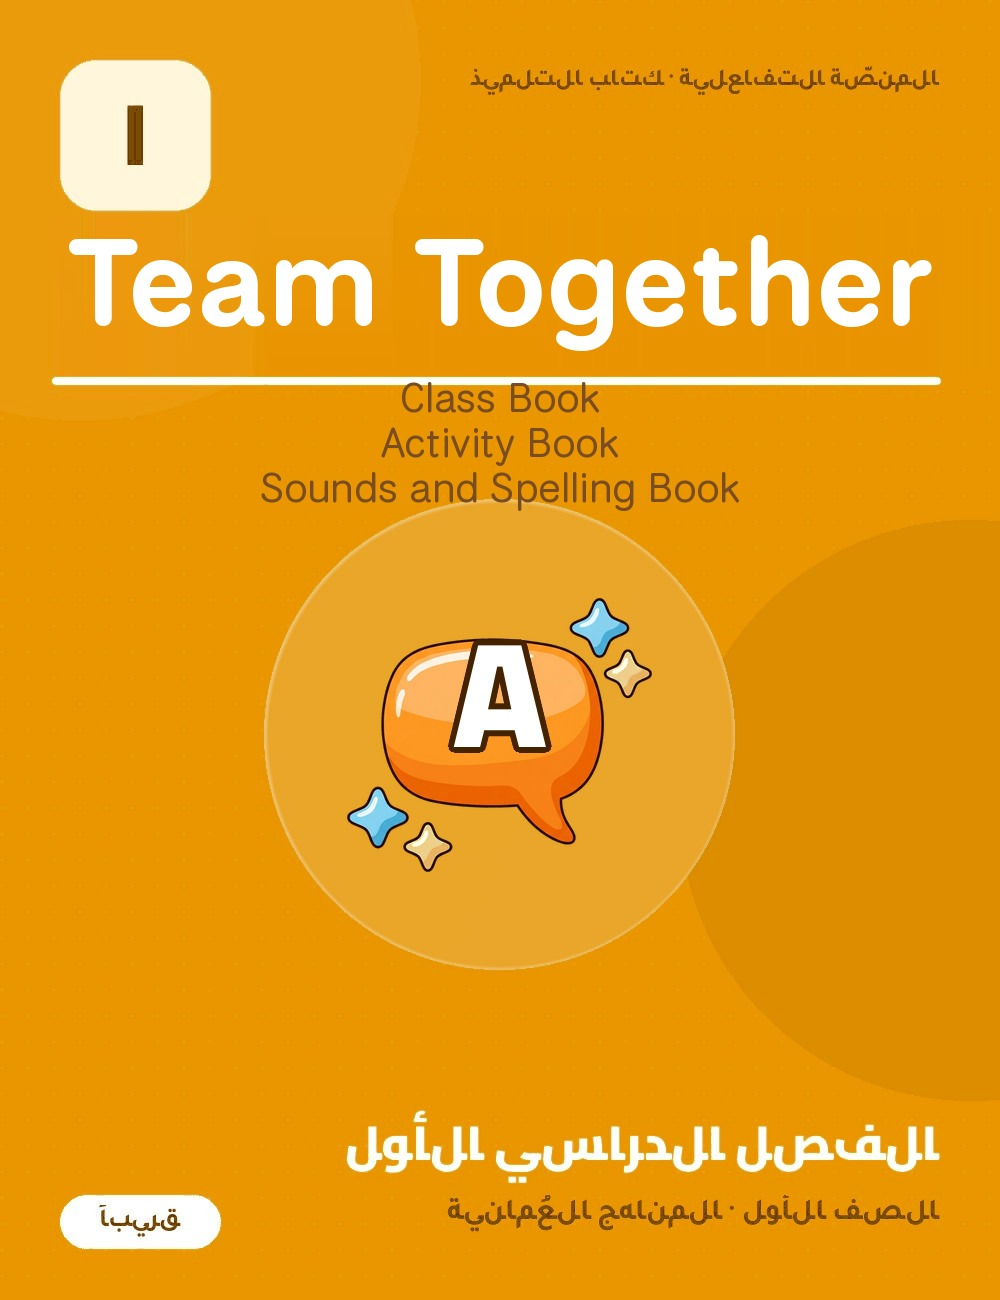
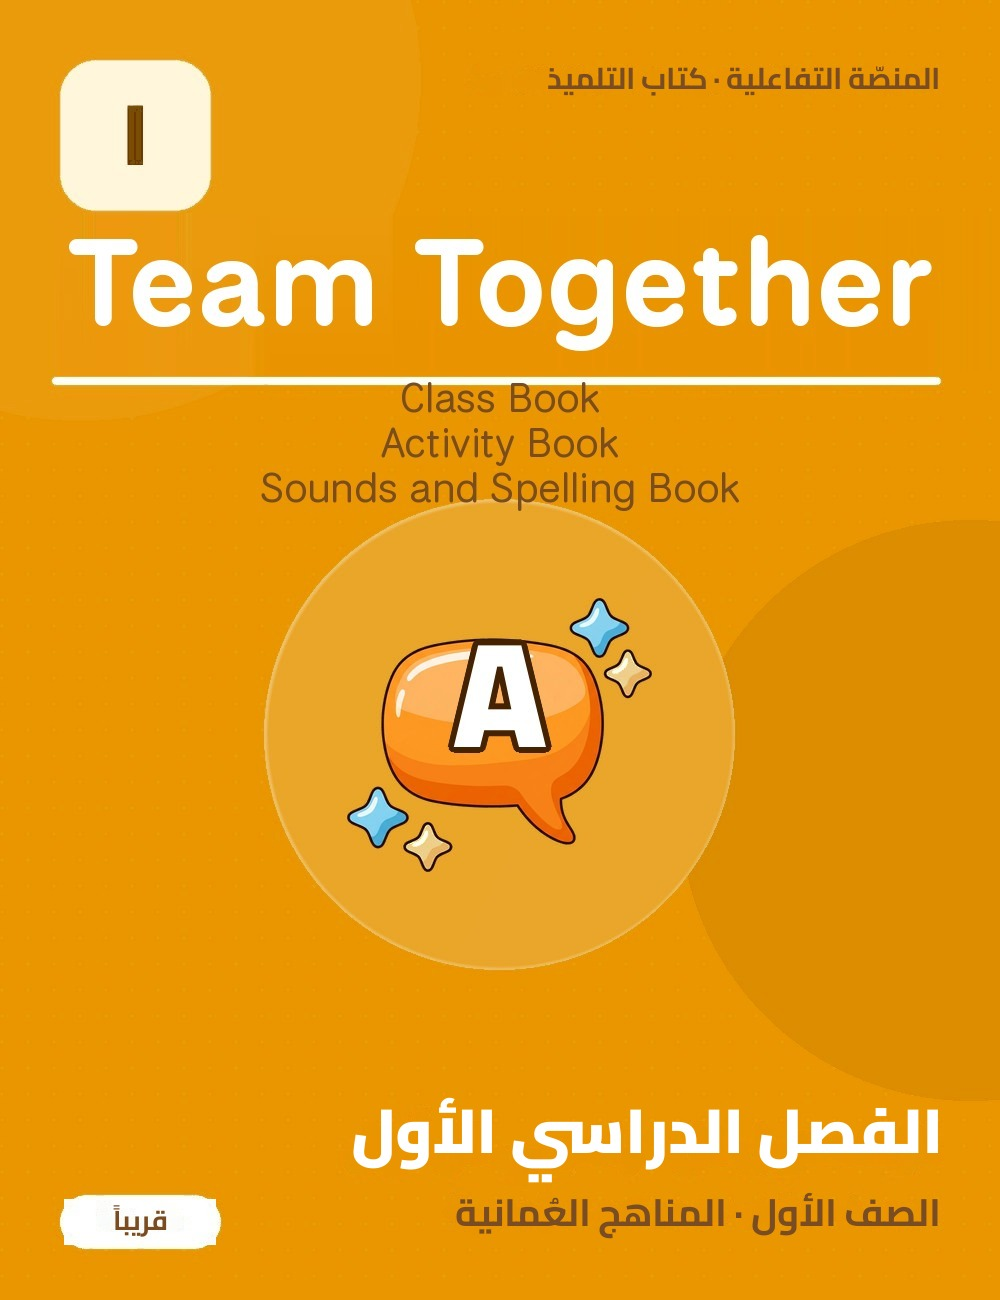
إصلاح النصوص العربية «المبعثرة» في بطاقة اللغة الإنجليزية + أداة تشكيل صحيحة
المالك لاحظ أن حروف البطاقة العربية غير متصلة. القياس الرقمي أكد ذلك:
أكبر كتلة متصلة في «الفصل الدراسي الأول» كانت ٨٣٤ بكسل (كل حرف كتلة
مستقلة)، وصارت ٣٣٩٢ بعد الإصلاح؛ وبطاقة العلوم — المعيار — على النمط
الصحيح أصلاً. حكمي السابق «لا خلل» كان خطأً بالعين المجردة.

العلّة الجذرية (مقيسة بأسماء الحروف بعد التشكيل): السكربت الأصلي مرّر
init/medi/fina ميزاتٍ عامّةً إلى hb.shape، فطُبِّق الشكل «النهائي» على كل
حرف (uniFEDE/uniFED2/uniFEBA…) — أشكالٌ سياقية لكن متباعدة لا تلتقي.
الحلّ: عدم تمرير أي ميزات؛ المُشكِّل العربي يطبّقها حرفاً حرفاً. النتيجة
مطابقة لرسم Chromium بخط Cairo نفسه (١١٤٥ مقابل ١١٦٢ بكسل عرضاً).

- images/cover-g1-en.jpg: أُعيد رسم النصوص الأربعة (العنوان العلوي، الفصل
  الدراسي، الصف والمناهج، «قريباً») بعد ترقيع الحروف القديمة، بأحجام
  مقيسة على بطاقة العلوم (السطر الكبير ≈٦٠٨ بكسل عرضاً بدل ٤٦٠ المكافئ
  القديم). الصياغة مأخوذة من بطاقة العلوم: «الصف الأول · المناهج
  العُمانية».
- tools/arabic-text.py: أداة التشكيل والرسم الصحيحة (HarfBuzz + FreeType)
  للبطاقات القادمة، مع توثيق العلّة في رأسها.
- CLAUDE.md §إنشاء بطاقات الكتب: تحذير مقيس من تمرير ميزات init/medi/fina،
  وطريقتا الحكم (مقارنة Chromium، وقياس المكوّنات المتصلة).

Claude-Session: https://claude.ai/code/session_017si4brcGTz1Fjpw8n6M5Kr

Changed region(s): [[0.341, 0.8308, 0.961, 0.9538], [0.465, 0.0308, 0.93, 0.0923], [0.093, 0.9231, 0.186, 0.9538]]

diff --git a/tools/arabic-text.py b/tools/arabic-text.py
@@ -1,0 +1,84 @@
+"""تشكيلُ نصٍّ عربيٍّ ورسمُه صورةً لبطاقاتِ الكتب (Pillow + HarfBuzz + FreeType).
+
+الاستعمال:
+    from importlib.machinery import SourceFileLoader
+    at = SourceFileLoader('at', 'tools/arabic-text.py').load_module()
+    img, ascent = at.shape_and_render('الفصل الدراسي الأول', 'Cairo-Black.ttf', 62)
+    card.paste(img, (x, y), img)          # img صورة RGBA مقصوصةٌ على النصّ
+
+المتطلبات: pip install uharfbuzz freetype-py
+خطُّ Cairo (OFL) يُنزَّل من Google Fonts (روابطُ TTF ثابتة عبر css2 بـUser-Agent قديم):
+    https://fonts.googleapis.com/css2?family=Cairo:wght@700;900
+
+⚠ العلّةُ التي أفسدت بطاقةَ الإنجليزية (٢٠٢٦-٠٩-١٦): تفعيلُ init/medi/fina كميزاتٍ
+عامّةٍ في hb.shape(...) يفرضُ الشكلَ «النهائيَّ» على كلِّ حرف، فتخرجُ الحروفُ بأشكالِها
+السياقيةِ لكن متباعدةً لا تلتقي (مبعثرة). لا تُمرَّرُ ميزاتٌ إطلاقاً — المُشكِّلُ
+العربيُّ يطبّقُها حرفاً حرفاً بنفسِه.
+"""
+import uharfbuzz as hb
+import freetype
+from PIL import Image
+import numpy as np
+
+_face_cache = {}
+
+
+def _ft_face(font_path):
+    if font_path not in _face_cache:
+        _face_cache[font_path] = freetype.Face(font_path)
+    return _face_cache[font_path]
+
+
+def shape_and_render(text, font_path, size_px, color=(255, 255, 255), rtl=True):
+    """يُعيدُ (صورة RGBA مقصوصةً على النصّ، ارتفاعَ السطرِ فوقَ خطِّ الأساس)."""
+    with open(font_path, 'rb') as f:
+        fontdata = f.read()
+    hb_font = hb.Font(hb.Face(fontdata))
+    hb_font.scale = (int(size_px * 64), int(size_px * 64))  # 26.6 → px = units >> 6
+
+    buf = hb.Buffer()
+    buf.add_str(text)
+    buf.guess_segment_properties()
+    if rtl:
+        buf.direction = 'rtl'
+    buf.script = 'Arab'
+    buf.language = 'ar'
+    hb.shape(hb_font, buf)  # بلا ميزاتٍ عامّة — انظر التحذير أعلاه
+
+    ft = _ft_face(font_path)
+    ft.set_char_size(int(size_px * 64))
+
+    pen_x = pen_y = 0
+    glyphs = []
+    min_left = max_right = max_top = min_bottom = 0
+    for info, pos in zip(buf.glyph_infos, buf.glyph_positions):
+        ft.load_glyph(info.codepoint, freetype.FT_LOAD_RENDER | freetype.FT_LOAD_TARGET_NORMAL)
+        bm = ft.glyph.bitmap
+        x0 = pen_x + (pos.x_offset >> 6) + ft.glyph.bitmap_left
+        y0 = pen_y - (pos.y_offset >> 6) - ft.glyph.bitmap_top
+        w, h = bm.width, bm.rows
+        arr = np.array(bm.buffer, dtype=np.uint8).reshape(h, w) if w and h else np.zeros((0, 0), np.uint8)
+        glyphs.append((x0, y0, w, h, arr))
+        min_left, max_right = min(min_left, x0), max(max_right, x0 + w)
+        max_top, min_bottom = min(max_top, y0), max(min_bottom, y0 + h)
+        pen_x += pos.x_advance >> 6
+        pen_y += pos.y_advance >> 6
+
+    cw, ch = max_right - min_left, min_bottom - max_top
+    if cw <= 0 or ch <= 0:
+        return Image.new('RGBA', (1, 1), (0, 0, 0, 0)), 0
+
+    canvas = np.zeros((ch, cw, 4), dtype=np.uint8)
+    r, g, b = color
+    for x0, y0, w, h, arr in glyphs:
+        if not (w and h):
+            continue
+        gx, gy = x0 - min_left, y0 - max_top
+        region = canvas[gy:gy + h, gx:gx + w]
+        a_new = arr.astype(np.uint16)
+        a_old = region[..., 3].astype(np.uint16)
+        region[..., 0], region[..., 1], region[..., 2] = r, g, b
+        region[..., 3] = np.clip(a_new + a_old * (255 - a_new) // 255, 0, 255).astype(np.uint8)
+        canvas[gy:gy + h, gx:gx + w] = region
+
+    return Image.fromarray(canvas, 'RGBA'), -max_top

diff --git a/CLAUDE.md b/CLAUDE.md
@@ -482,6 +482,14 @@
      لا مجرّد إعادة ترتيب** (`arabic_reshaper`+`bidi` وحدهما يُخرجان مربعات مفقودة
      مع خطوط لا تحمل جدول Presentation Forms كاملاً مثل Cairo) — استعمل HarfBuzz
      مباشرةً (`uharfbuzz`+`freetype-py`) لتشكيلٍ مضمون يطابق عرض المتصفح فعلياً.
+     **والأداةُ الجاهزةُ الصحيحةُ: `tools/arabic-text.py`** — تُستعملُ ولا يُعادُ كتابتُها.
+     > ⚠ **علّةٌ مقيسةٌ (٢٠٢٦-٠٩-١٦): لا تُمرَّرُ `init/medi/fina` ميزاتٍ عامّةً إلى
+     > `hb.shape`** — تفرضُ الشكلَ النهائيَّ على كلِّ حرفٍ فتخرجُ الحروفُ بأشكالٍ سياقيةٍ
+     > لكن **متباعدةً لا تلتقي (مبعثرة)**، وهو ما أفسدَ بطاقةَ `g1-en` الأولى رغمَ أنّ
+     > سكربتَها استعملَ HarfBuzz فعلاً. **والحَكَمُ عندَ الشكِّ رسمُ النصِّ نفسِه بـChromium**
+     > (Playwright مع `@font-face` على ملفِّ Cairo) والمقارنةُ؛ وقياسُ المكوّناتِ المتصلةِ
+     > يكشفُها رقمياً: نصٌّ صحيحٌ فيه كتلٌ كبيرةٌ (الكلمةُ المتصلة)، والمبعثرُ كتلُه كلُّها
+     > بحجمِ حرفٍ واحد.
   ٢. **أيقونة القرص** تُولَّد عبر سير n8n **«شوجب — مولّد رسومات الأسئلة (جيميناي)»**
      (`lzsADt1hwUD0mXc2`) — أضف عنصراً بـ`{"name":"cover-art-<key>-<batchId>","subject":"..."}`
      في `tools/graphics-batch.json`، ادفع إلى `main`، شغّل السير (`execute_workflow`
